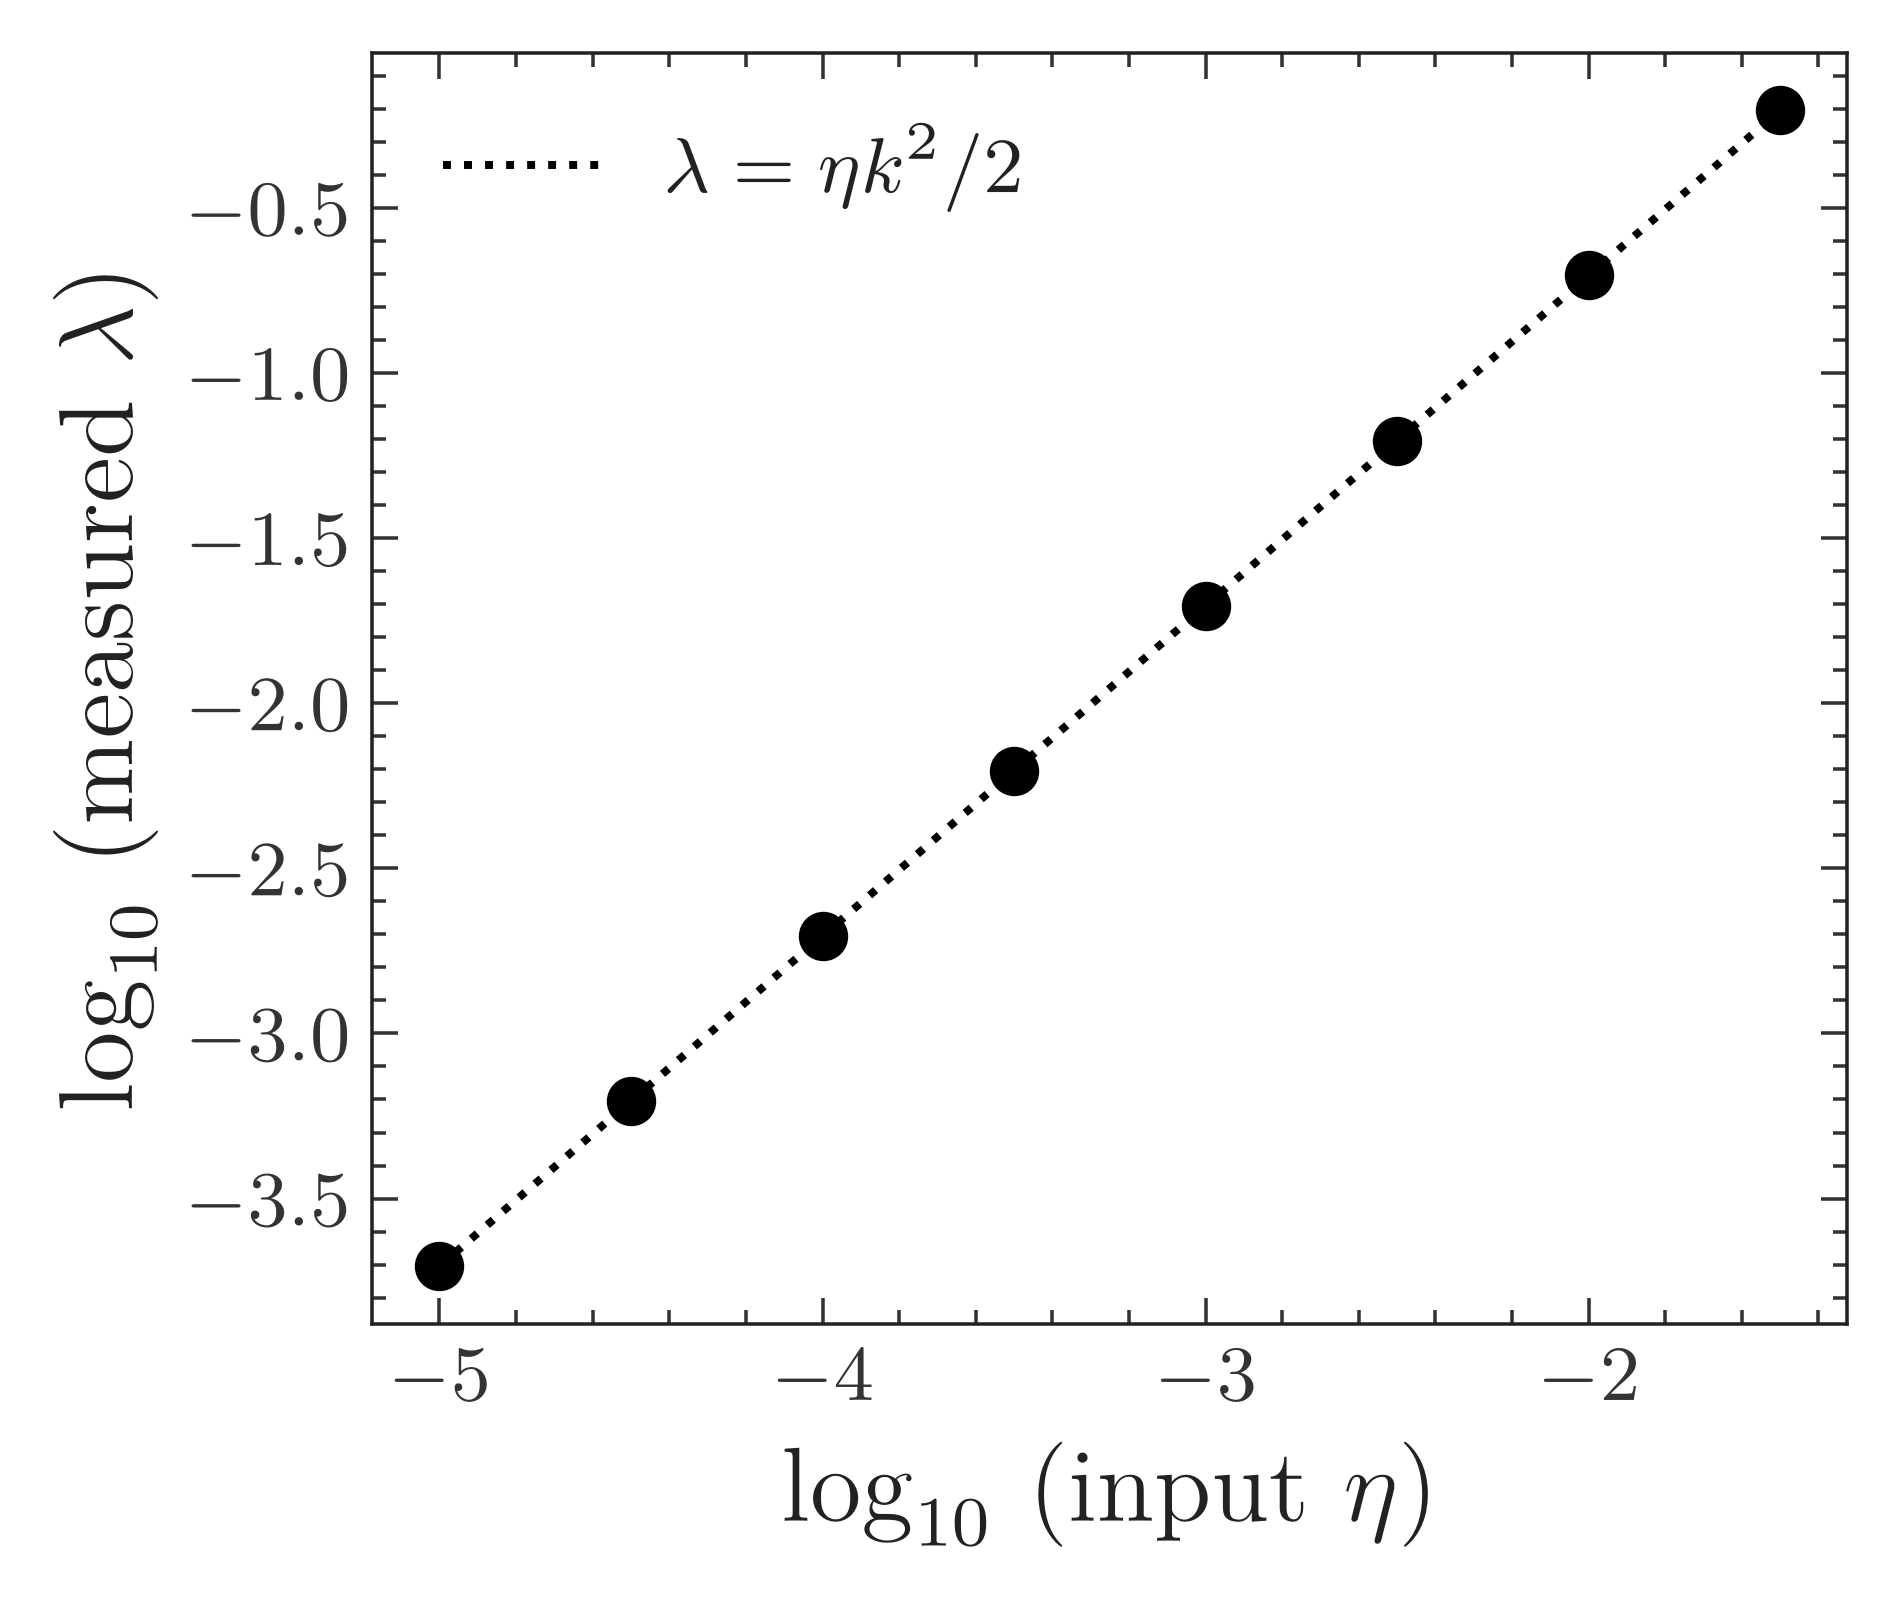
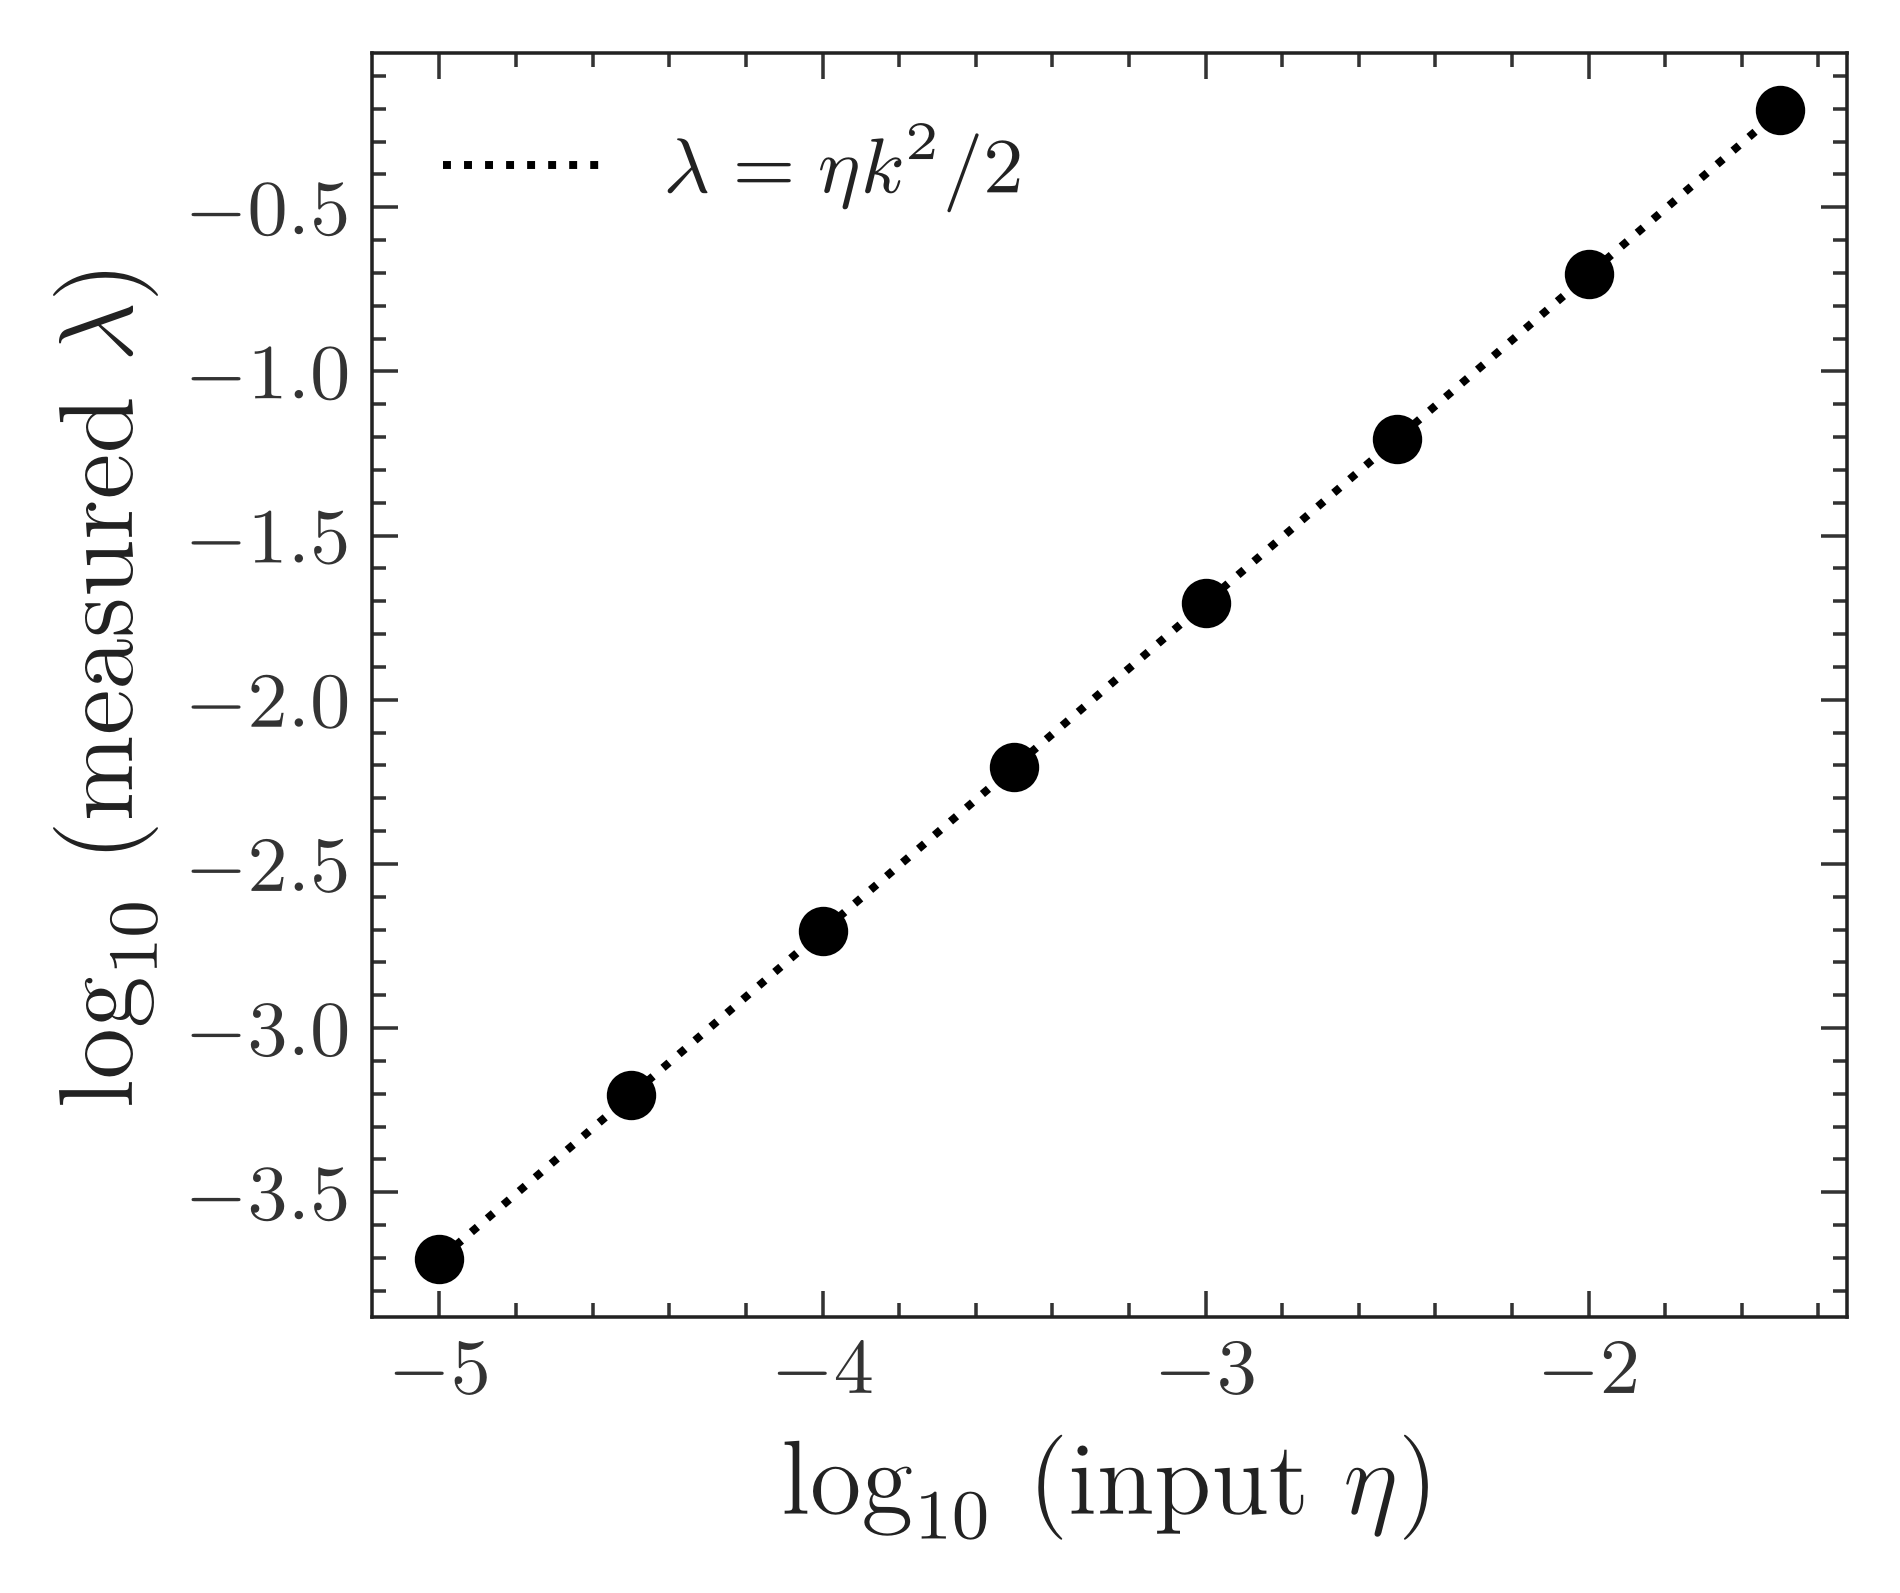
update-file(resistive-decay-rate): single-panel; fraction aspect ratio; paper_style; num_cells path.

diff --git a/scripts/problems/alfven-wave-linear/plot_resistive_decay_rate.py b/scripts/problems/alfven-wave-linear/plot_resistive_decay_rate.py
@@ -12,13 +12,15 @@ from pathlib import Path
 import numpy
 
 from matplotlib import ticker as mpl_ticker
-from numpy.typing import NDArray
+from numpy import typing as numpy_typing
 
 ## personal
-from jormi.ww_data import fit_series
-from jormi.ww_data.series_types import GaussianSeries
-from jormi.ww_io import json_io, manage_io, manage_log
+from jormi.ww_data import fit_series, series_types
+from jormi.ww_io import json_io, manage_io
 from jormi.ww_plots import manage_figure, style_figure
+
+## local
+from local_helpers import paper_style
 
 ##
 ## === DATA STRUCTURES
@@ -28,8 +30,8 @@ from jormi.ww_plots import manage_figure, style_figure
 @dataclass(frozen=True)
 class Snapshot:
     time: float
-    position: NDArray[numpy.floating]
-    field_value: NDArray[numpy.floating]
+    position: numpy_typing.NDArray[numpy.floating]
+    field_value: numpy_typing.NDArray[numpy.floating]
 
 
 ##
@@ -50,7 +52,7 @@ def discover_eta_labels(
     *,
     dataset_dir: Path,
 ) -> tuple[str, ...]:
-    """Return every `eta=<label>` directory under `dataset_dir`, sorted by resistivity value."""
+    """Return every `eta=<resistivity>` directory under `dataset_dir`, sorted by resistivity value."""
     eta_dirs = sorted(
         dataset_dir.glob("eta=*"),
         key=lambda path: float(path.name.removeprefix("eta=")),
@@ -62,7 +64,7 @@ def load_perturbed_component_snapshots(
     *,
     eta_label: str,
 ) -> list[Snapshot]:
-    extracted_dir = DATASET_DIR / f"eta={eta_label}" / "ncells=256" / "q26-b25-ppm_ep" / "extracted"
+    extracted_dir = DATASET_DIR / f"eta={eta_label}" / "num_cells=256" / "q26-b25-ppm_ep" / "extracted"
     snapshots = []
     file_paths = sorted(extracted_dir.glob("magnetic-axis=x_0-index=*.json"))
     for file_path in file_paths:
@@ -89,7 +91,7 @@ def measure_decay_rate(
     times = numpy.asarray([snapshot.time for snapshot in snapshots])
     amplitudes = numpy.asarray([numpy.max(numpy.abs(snapshot.field_value)) for snapshot in snapshots])
     fit_summary = fit_series.fit_linear_model(
-        gaussian_series=GaussianSeries(
+        gaussian_series=series_types.GaussianSeries(
             x_values=times,
             y_values=numpy.log(amplitudes),
         ),
@@ -129,37 +131,28 @@ def plot_decay_rate_panel(
 
 
 def main() -> None:
-    manage_log.set_block_width_mode(mode=manage_log.BlockWidthMode.PRACTICAL)
-    default_text_sizes = style_figure.TextSizeParams()
-    style_figure.set_figure_params(
-        figure_params=style_figure.FigureParams(
-            text_size_params=style_figure.TextSizeParams(
-                legend_level=default_text_sizes.annotation_level,
-            ),
-        ),
-    )
+    paper_style.setup_plotting_script()
     manage_io.create_directory(
         directory=FIGURE_PATH.parent,
         verbose=False,
     )
     eta_labels = discover_eta_labels(dataset_dir=DATASET_DIR)
-    figure, panel_grid = manage_figure.create_figure_grid(
-        num_panel_rows=1,
-        num_panel_cols=1,
-        panel_aspect_ratio=1.160,
+    figure, panel = manage_figure.create_figure(
+        ## chosen by eye
+        panel_aspect_ratio=7.0 / 6.0,
         ## drawn at the width the paper prints it at, so its text is the size it asks for
         figure_layout=style_figure.FigureLayout(
             figure_width=style_figure.FigureWidth(width_fraction=0.475),
         ),
     )
     plot_decay_rate_panel(
-        panel=panel_grid[0, 0],
+        panel=panel,
         eta_labels=eta_labels,
     )
-    panel_grid[0, 0].set_xlabel(r"$\log_{10}\ (\mathrm{input}\ \eta)$")
-    panel_grid[0, 0].set_ylabel(r"$\log_{10}\ (\mathrm{measured}\ \lambda)$")
-    panel_grid[0, 0].xaxis.set_major_locator(mpl_ticker.MultipleLocator(1))
-    panel_grid[0, 0].legend(
+    panel.set_xlabel(r"$\log_{10}\ (\mathrm{input}\ \eta)$")
+    panel.set_ylabel(r"$\log_{10}\ (\mathrm{measured}\ \lambda)$")
+    panel.xaxis.set_major_locator(mpl_ticker.MultipleLocator(1))
+    panel.legend(
         loc="upper left",
         frameon=False,
     )
